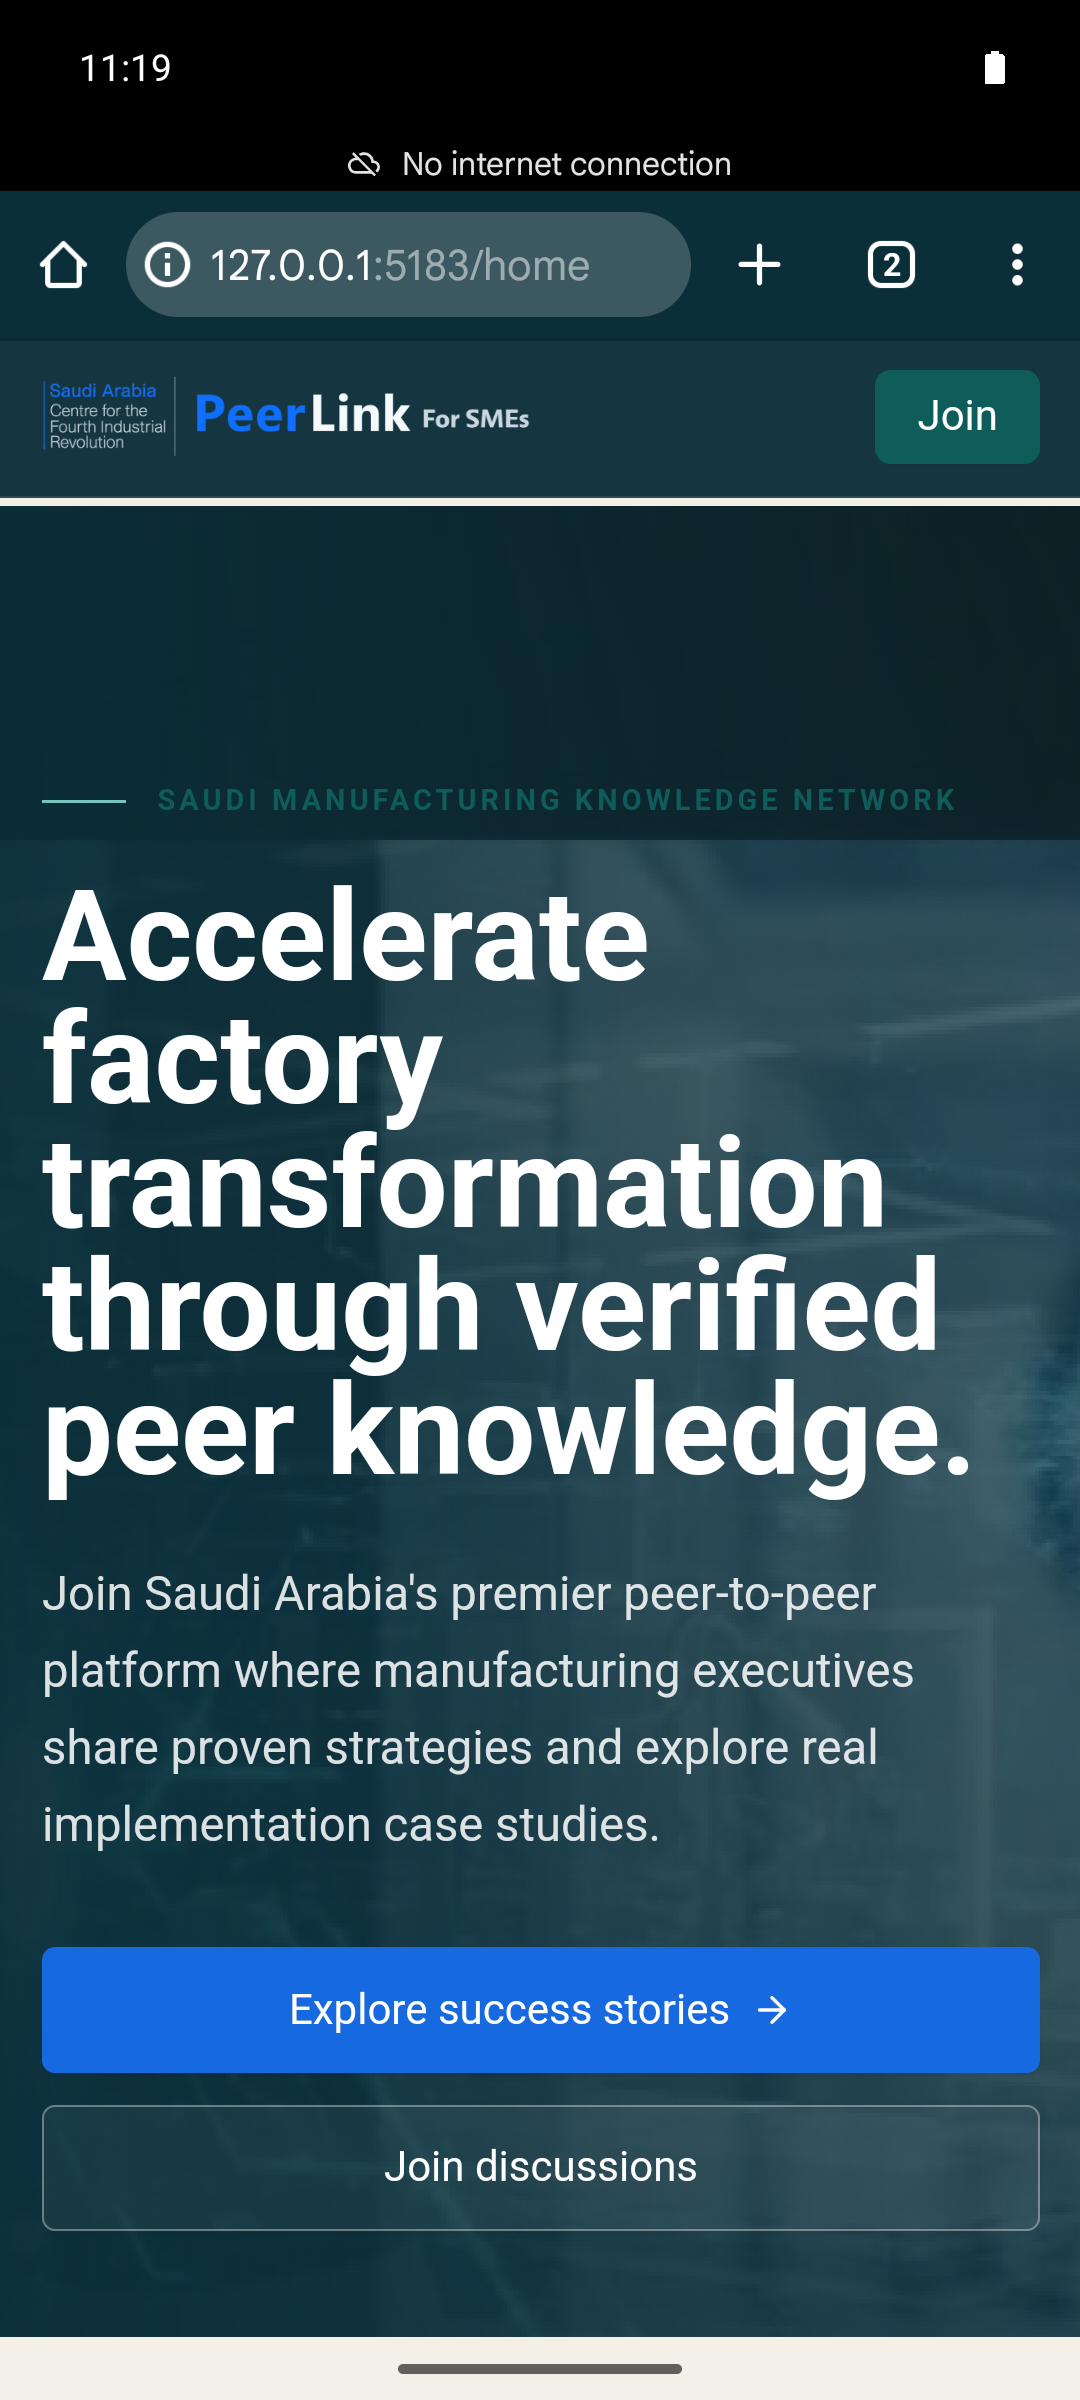
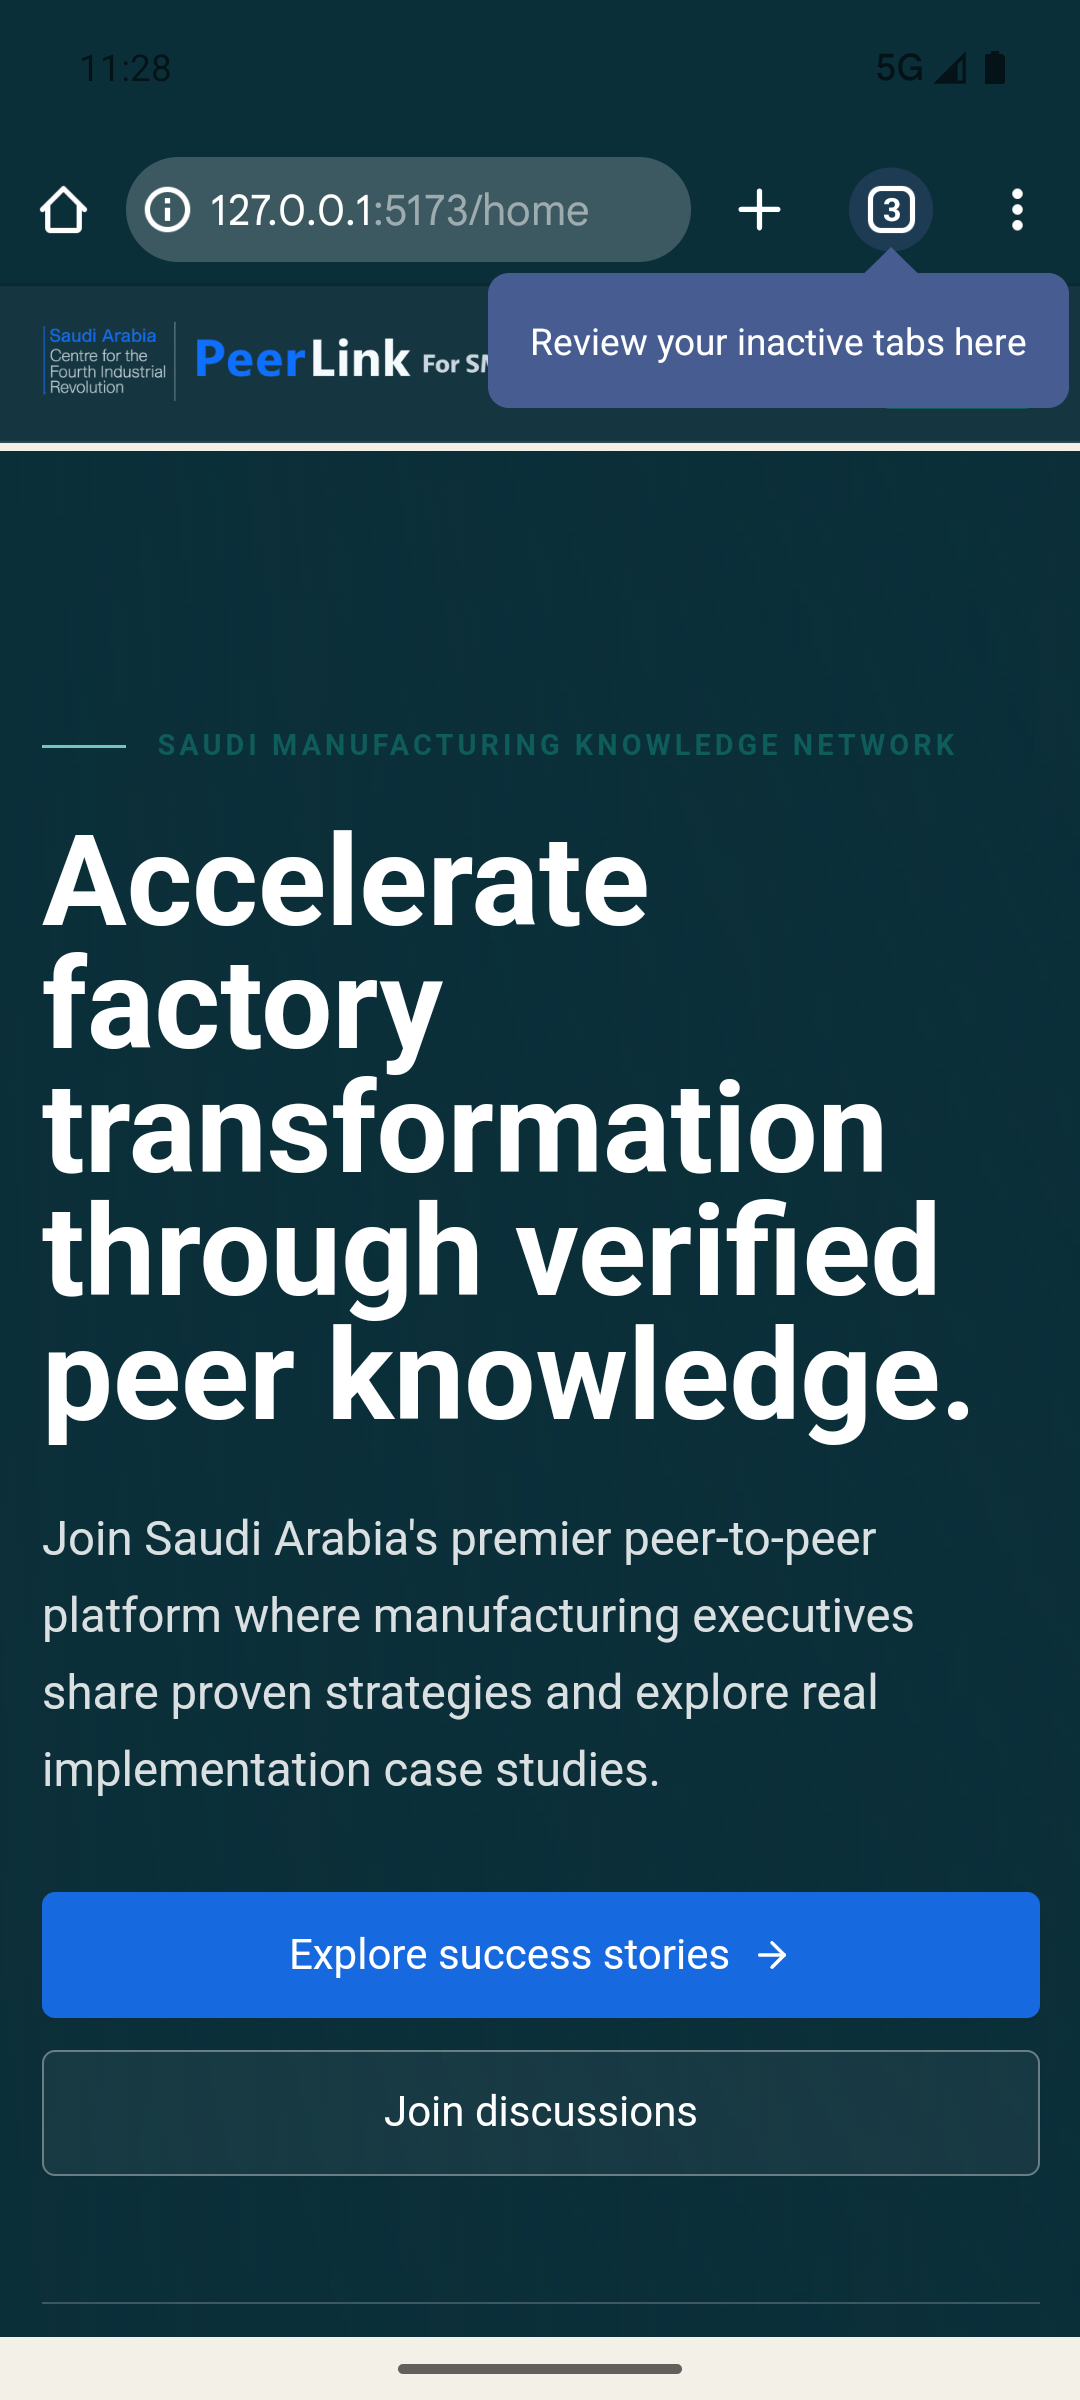
fix: restore PeerLink emulator authentication

diff --git a/p2p-frontend-app/src/config/environment.ts b/p2p-frontend-app/src/config/environment.ts
@@ -14,11 +14,12 @@ export const IS_DEV_ENV = !isForcedProduction && (
   import.meta.env.VITE_ENVIRONMENT === 'development' ||
   import.meta.env.VITE_NODE_ENV === 'development'
 )
-// Use environment variables if set, otherwise use current origin for deployed environments.
-// nginx proxies /api and /auth on the same host, so same-origin is the safest production default.
-const localApiOrigin = `${window.location.protocol}//${window.location.hostname}:8000`
+// Vite's source-development server talks directly to the backend on port 8000.
+// Every built/deployed copy (including the Android-emulator PWA tunnel) must stay
+// same-origin so nginx can proxy /api and /auth without exposing a second port.
+const developmentApiOrigin = `${window.location.protocol}//${window.location.hostname}:8000`
 export const API_BASE_URL = import.meta.env.VITE_API_BASE_URL ||
-  (isProductionServer || isRemoteAccess ? currentOrigin : localApiOrigin)
+  (import.meta.env.DEV && !isProductionServer && !isRemoteAccess ? developmentApiOrigin : currentOrigin)
 export const WEBSITE_BASE_URL = import.meta.env.VITE_WEBSITE_BASE_URL || currentOrigin
 // Helper function to build API URLs
 export const buildApiUrl = (path: string): string => {

diff --git a/docs/Logs/2026-07-29-001-peerlink-pwa-mobile-and-android-emulator.md b/docs/Logs/2026-07-29-001-peerlink-pwa-mobile-and-android-emulator.md
@@ -63,11 +63,13 @@ C:\Users\hamza\Documents\PeerLinkDemo\start_peerlink_android_demo.ps1
 The launcher:
 
 1. verifies the laptop Android SDK and ADB;
-2. starts an SSH tunnel from laptop port `5183` to Mini PC PeerLink port `5173`;
+2. starts an SSH tunnel from laptop port `5173` to Mini PC PeerLink port `5173`;
 3. boots the `Pixel_7` AVD;
 4. waits for Android startup;
-5. applies `adb reverse tcp:5183 tcp:5183`;
-6. opens `http://127.0.0.1:5183` in Android Chrome.
+5. applies `adb reverse tcp:5173 tcp:5173`;
+6. opens `http://127.0.0.1:5173` in Android Chrome.
+
+The emulator origin deliberately uses port `5173`, which is already authorized by PeerLink's local authentication CORS policy. An initial port `5183` launcher caused SuperTokens sign-in to fail with `Failed to fetch` because that origin was not authorized.
 
 Localhost is required because service workers and installable PWAs need a trustworthy origin. Android emulator localhost maps to laptop localhost through ADB, and laptop localhost maps to Mini PC localhost through SSH.
 
@@ -116,7 +118,7 @@ Key BrowserOps screenshots:
 The launcher was executed against Hamza's personal laptop and successfully reported:
 
 ```text
-PeerLink opened in the Android emulator: http://127.0.0.1:5183
+PeerLink opened in the Android emulator: http://127.0.0.1:5173
 ```
 
 Verified:
